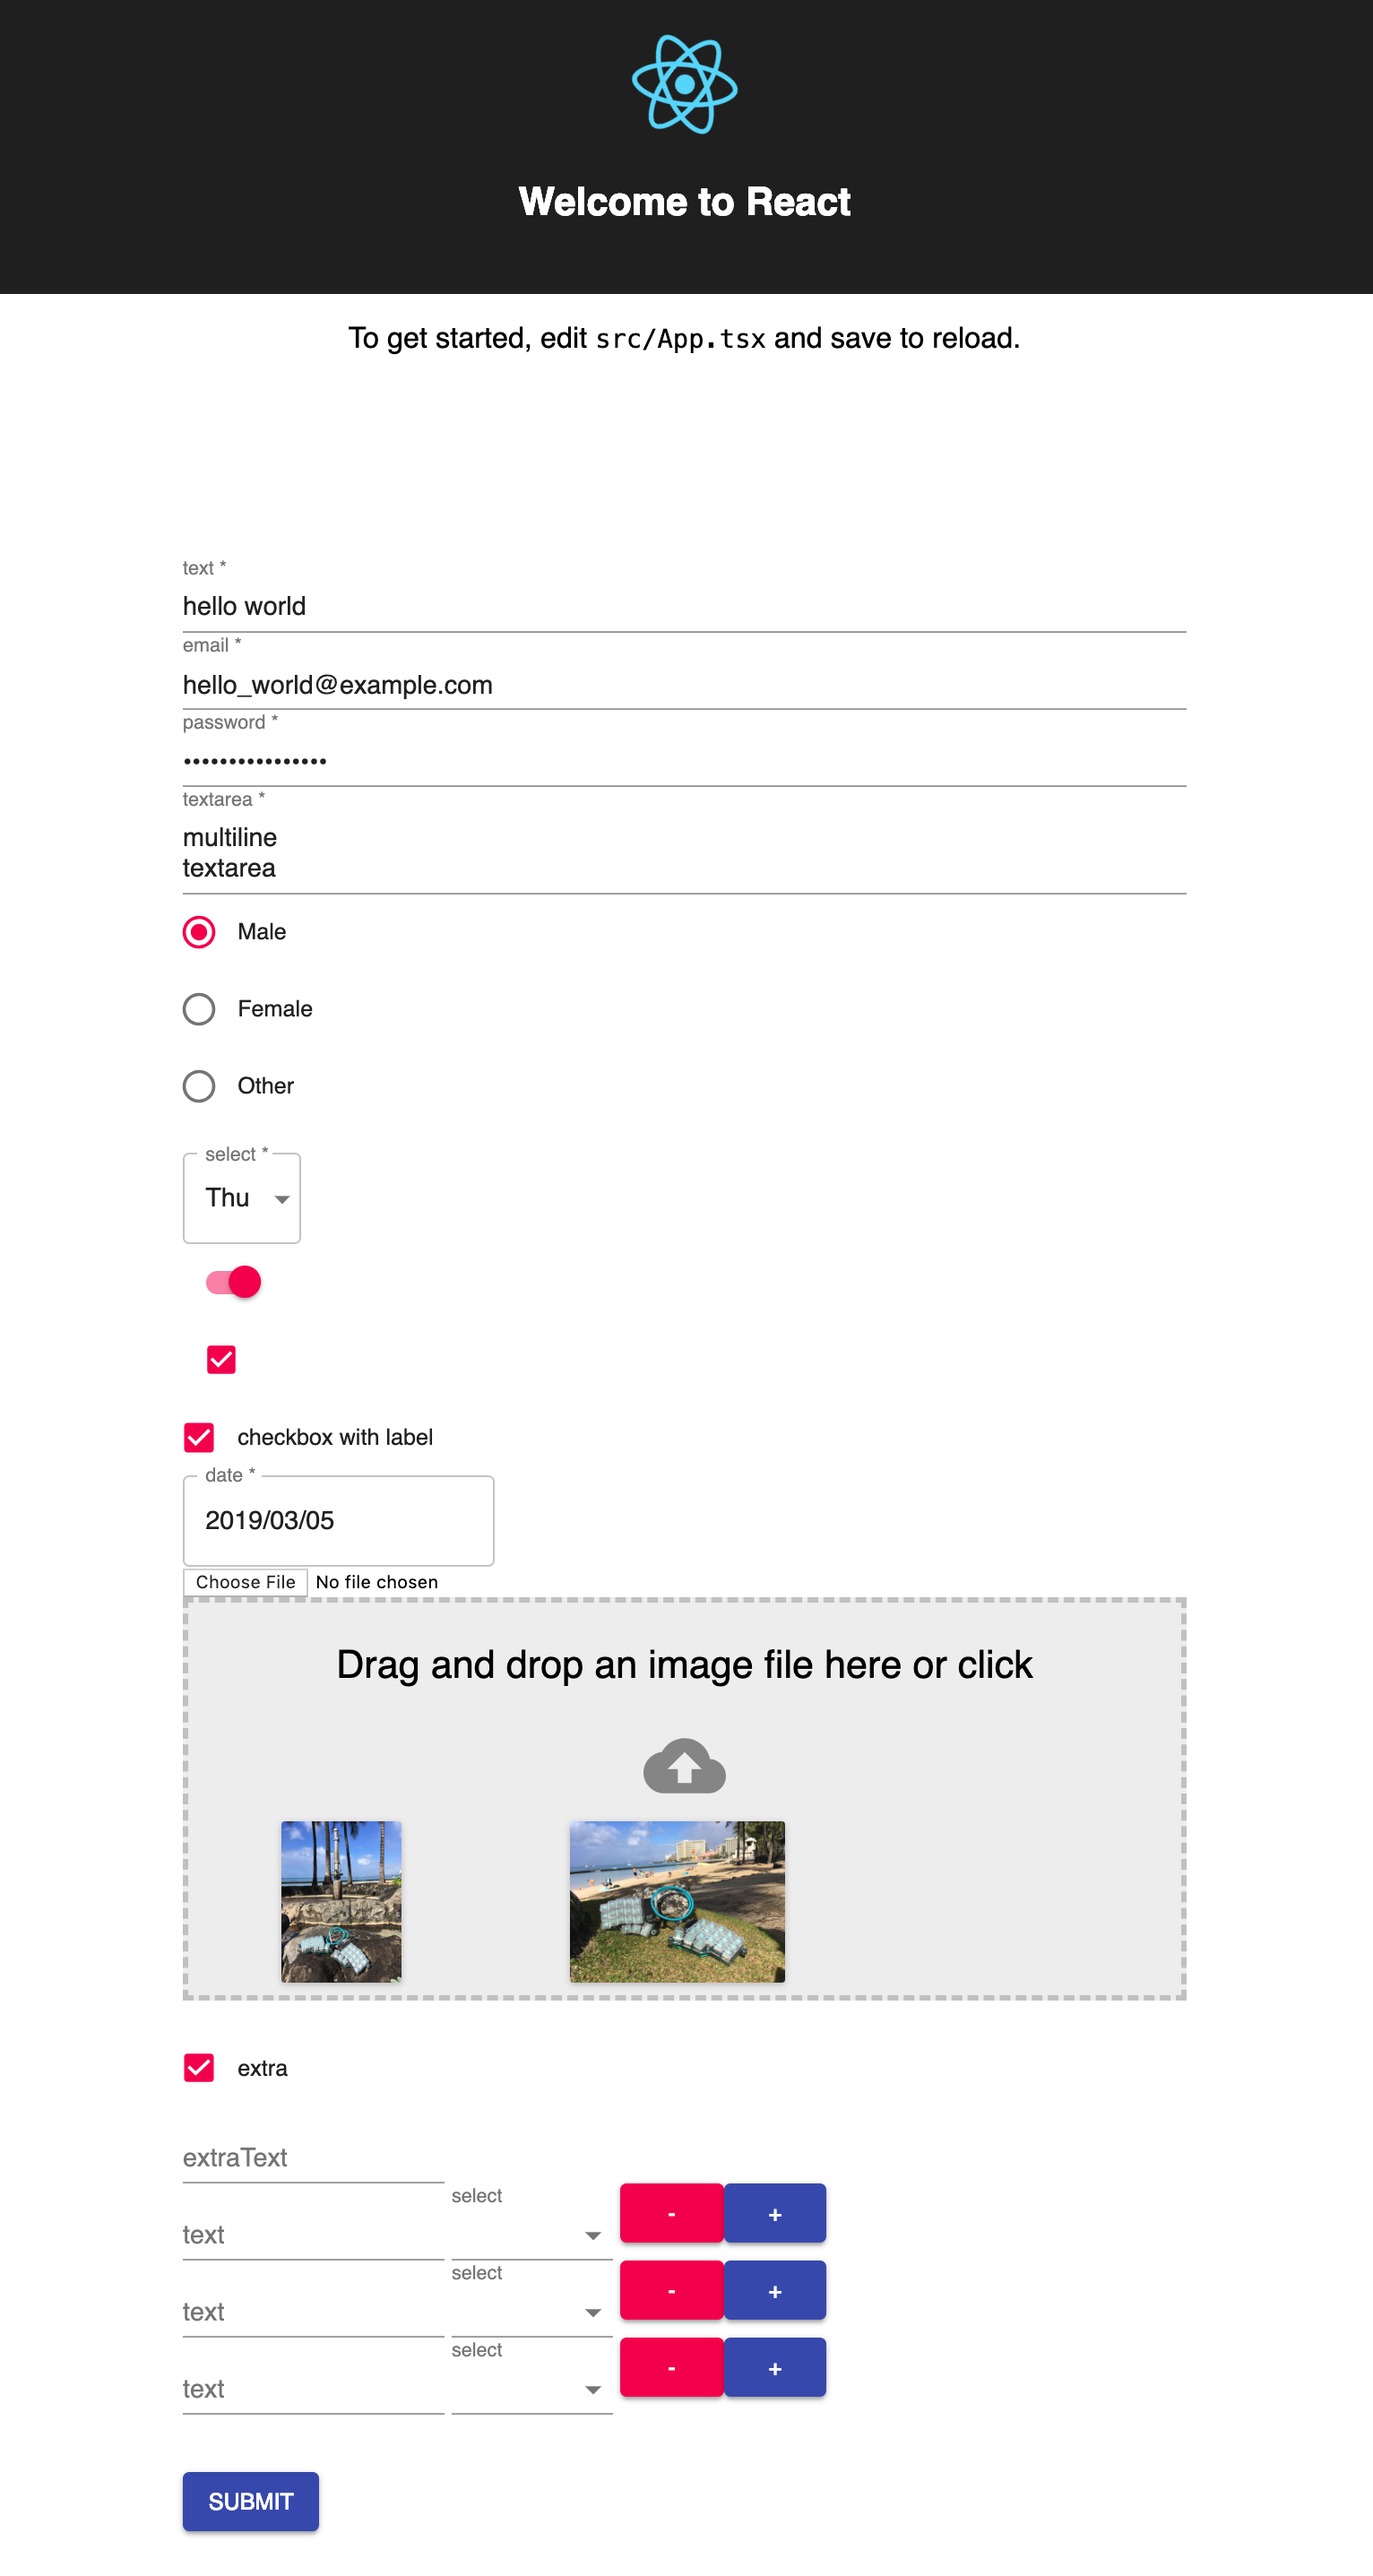
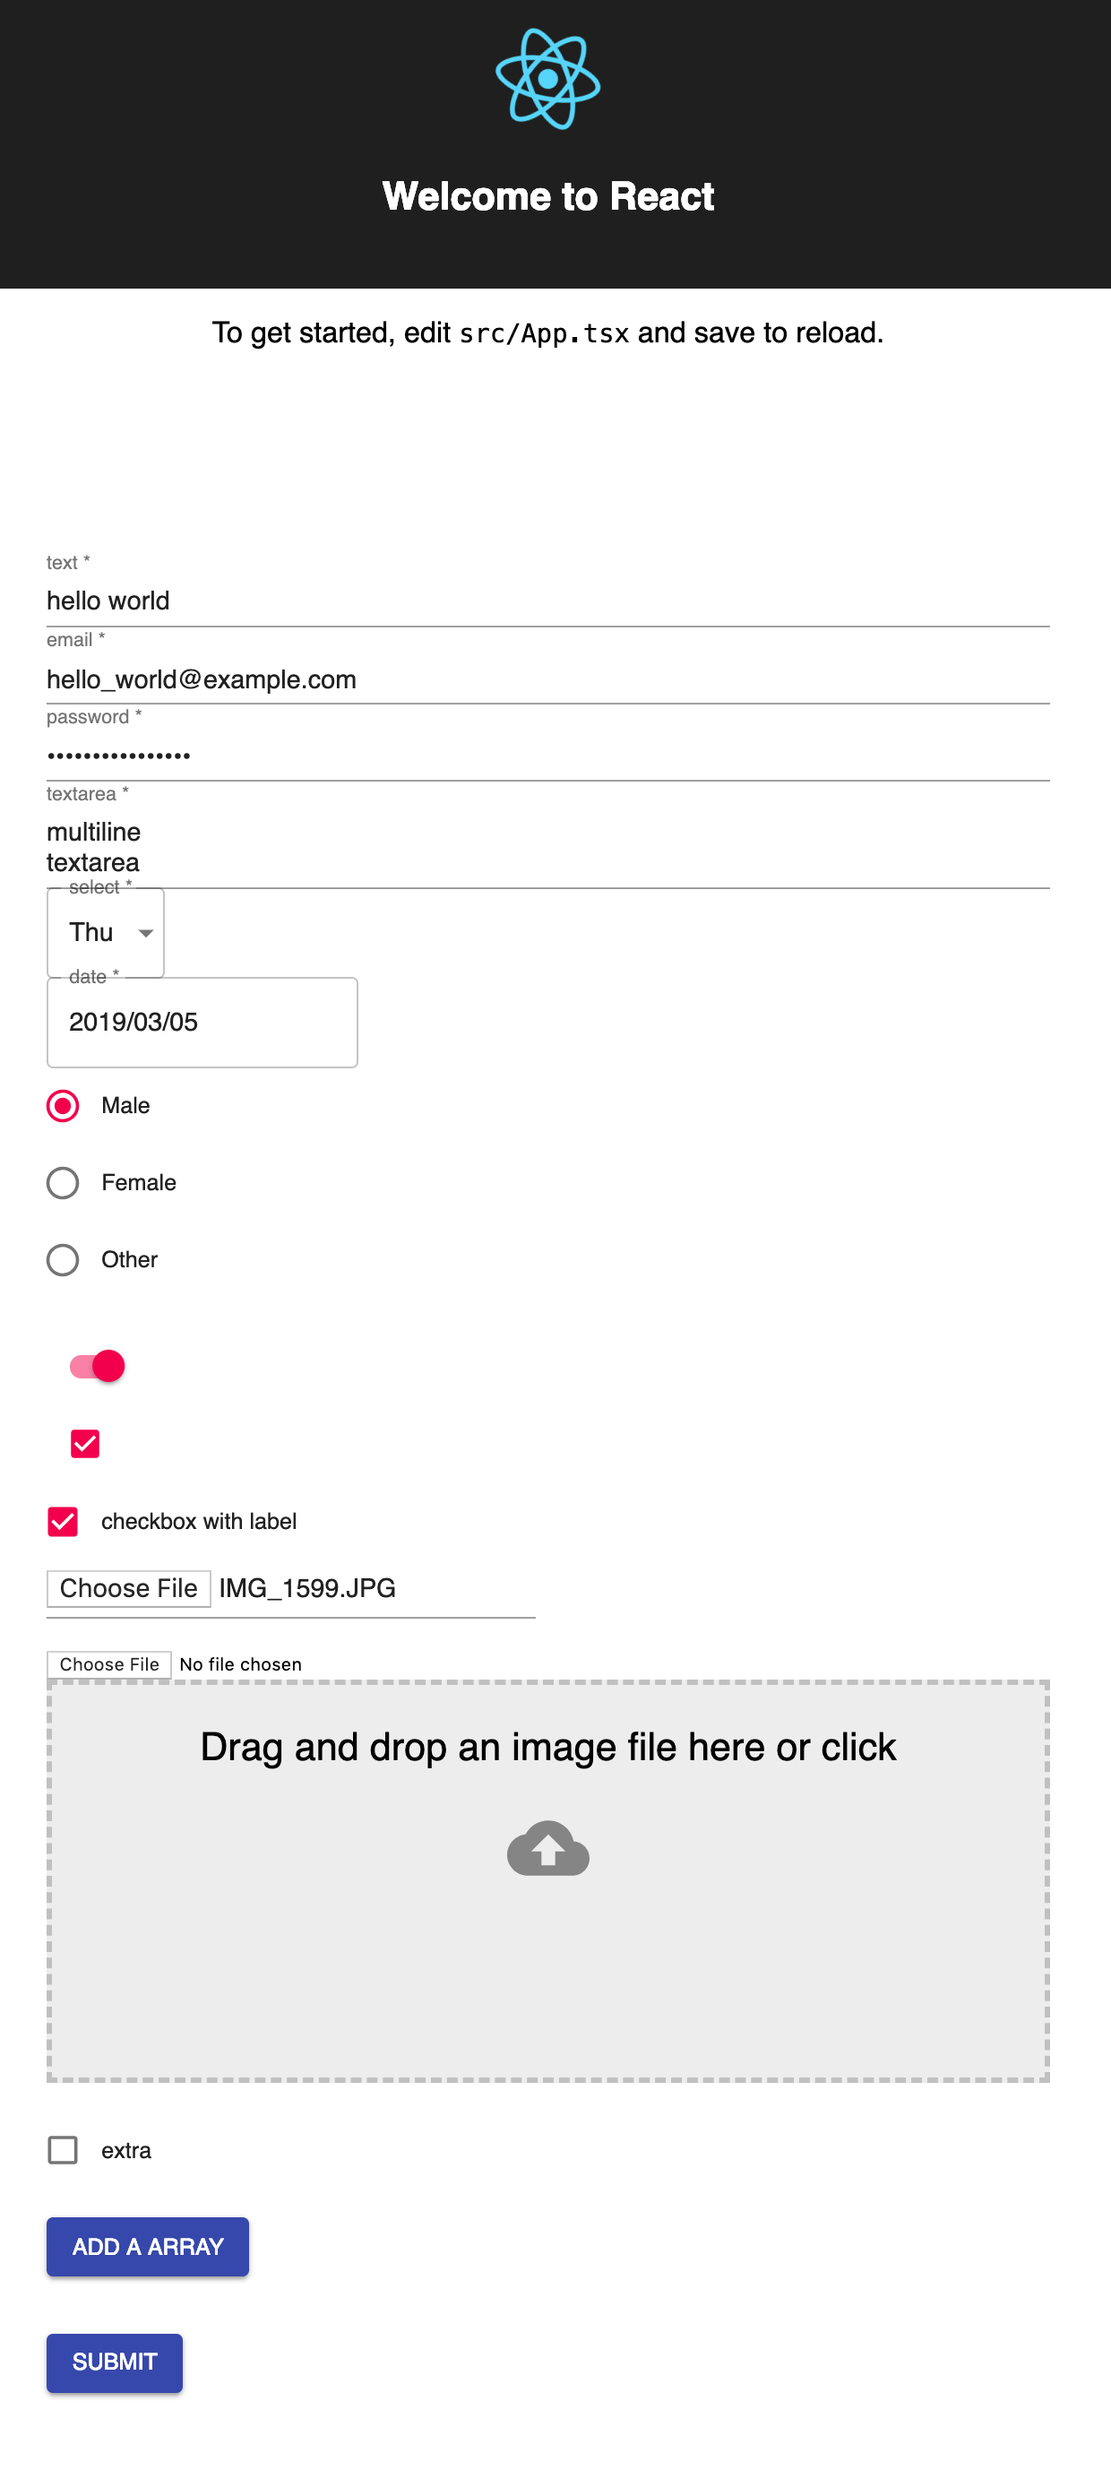
Update for blog

diff --git a/src/Components.tsx b/src/Components.tsx
@@ -13,6 +13,7 @@ import {
   Checkbox,
   CheckboxWithLabel,
   RadioGroup,
+  SimpleFileUpload,
   Switch,
   TextField,
 } from 'formik-material-ui';
@@ -63,6 +64,7 @@ const PracticeForm: React.FC<InjectedFormikProps<FormProps, FormValues>> = ({
       fullWidth={true}
     />
     <br />
+
     <Field
       name="email"
       label="email *"
@@ -73,6 +75,7 @@ const PracticeForm: React.FC<InjectedFormikProps<FormProps, FormValues>> = ({
       fullWidth={true}
     />
     <br />
+
     <Field
       name="password"
       label="password *"
@@ -84,6 +87,7 @@ const PracticeForm: React.FC<InjectedFormikProps<FormProps, FormValues>> = ({
       fullWidth={true}
     />
     <br />
+
     <Field
       name="textarea"
       label="textarea *"
@@ -94,6 +98,33 @@ const PracticeForm: React.FC<InjectedFormikProps<FormProps, FormValues>> = ({
       fullWidth={true}
     />
     <br />
+
+    <Field
+      name="select"
+      label="select *"
+      select={true}
+      component={TextField}
+      variant="outlined"
+      InputLabelProps={{ shrink: true }}
+    >
+      {['Sun', 'Mon', 'Tue', 'Wed', 'Thu', 'Fri', 'Sat'].map((value, index) => (
+        <MenuItem key={index} value={value}>
+          {value}
+        </MenuItem>
+      ))}
+    </Field>
+    <br />
+
+    <Field
+      name="date"
+      label="date *"
+      type="date"
+      InputLabelProps={{ shrink: true }}
+      component={TextField}
+      variant="outlined"
+    />
+    <br />
+
     <Field
       name="gender"
       label="gender *"
@@ -121,21 +152,6 @@ const PracticeForm: React.FC<InjectedFormikProps<FormProps, FormValues>> = ({
       />
     </Field>
     <br />
-    <Field
-      name="select"
-      label="select *"
-      select={true}
-      component={TextField}
-      variant="outlined"
-      InputLabelProps={{ shrink: true }}
-    >
-      {['Sun', 'Mon', 'Tue', 'Wed', 'Thu', 'Fri', 'Sat'].map((value, index) => (
-        <MenuItem key={index} value={value}>
-          {value}
-        </MenuItem>
-      ))}
-    </Field>
-    <br />
     <Field name="switch" label="switch" component={Switch} />
     <br />
     <Field name="checkbox" label="checkbox" component={Checkbox} />
@@ -148,14 +164,7 @@ const PracticeForm: React.FC<InjectedFormikProps<FormProps, FormValues>> = ({
     />
     <br />
 
-    <Field
-      name="date"
-      label="date *"
-      type="date"
-      InputLabelProps={{ shrink: true }}
-      component={TextField}
-      variant="outlined"
-    />
+    <Field component={SimpleFileUpload} name="upload_file" />
     <br />
 
     <Field
